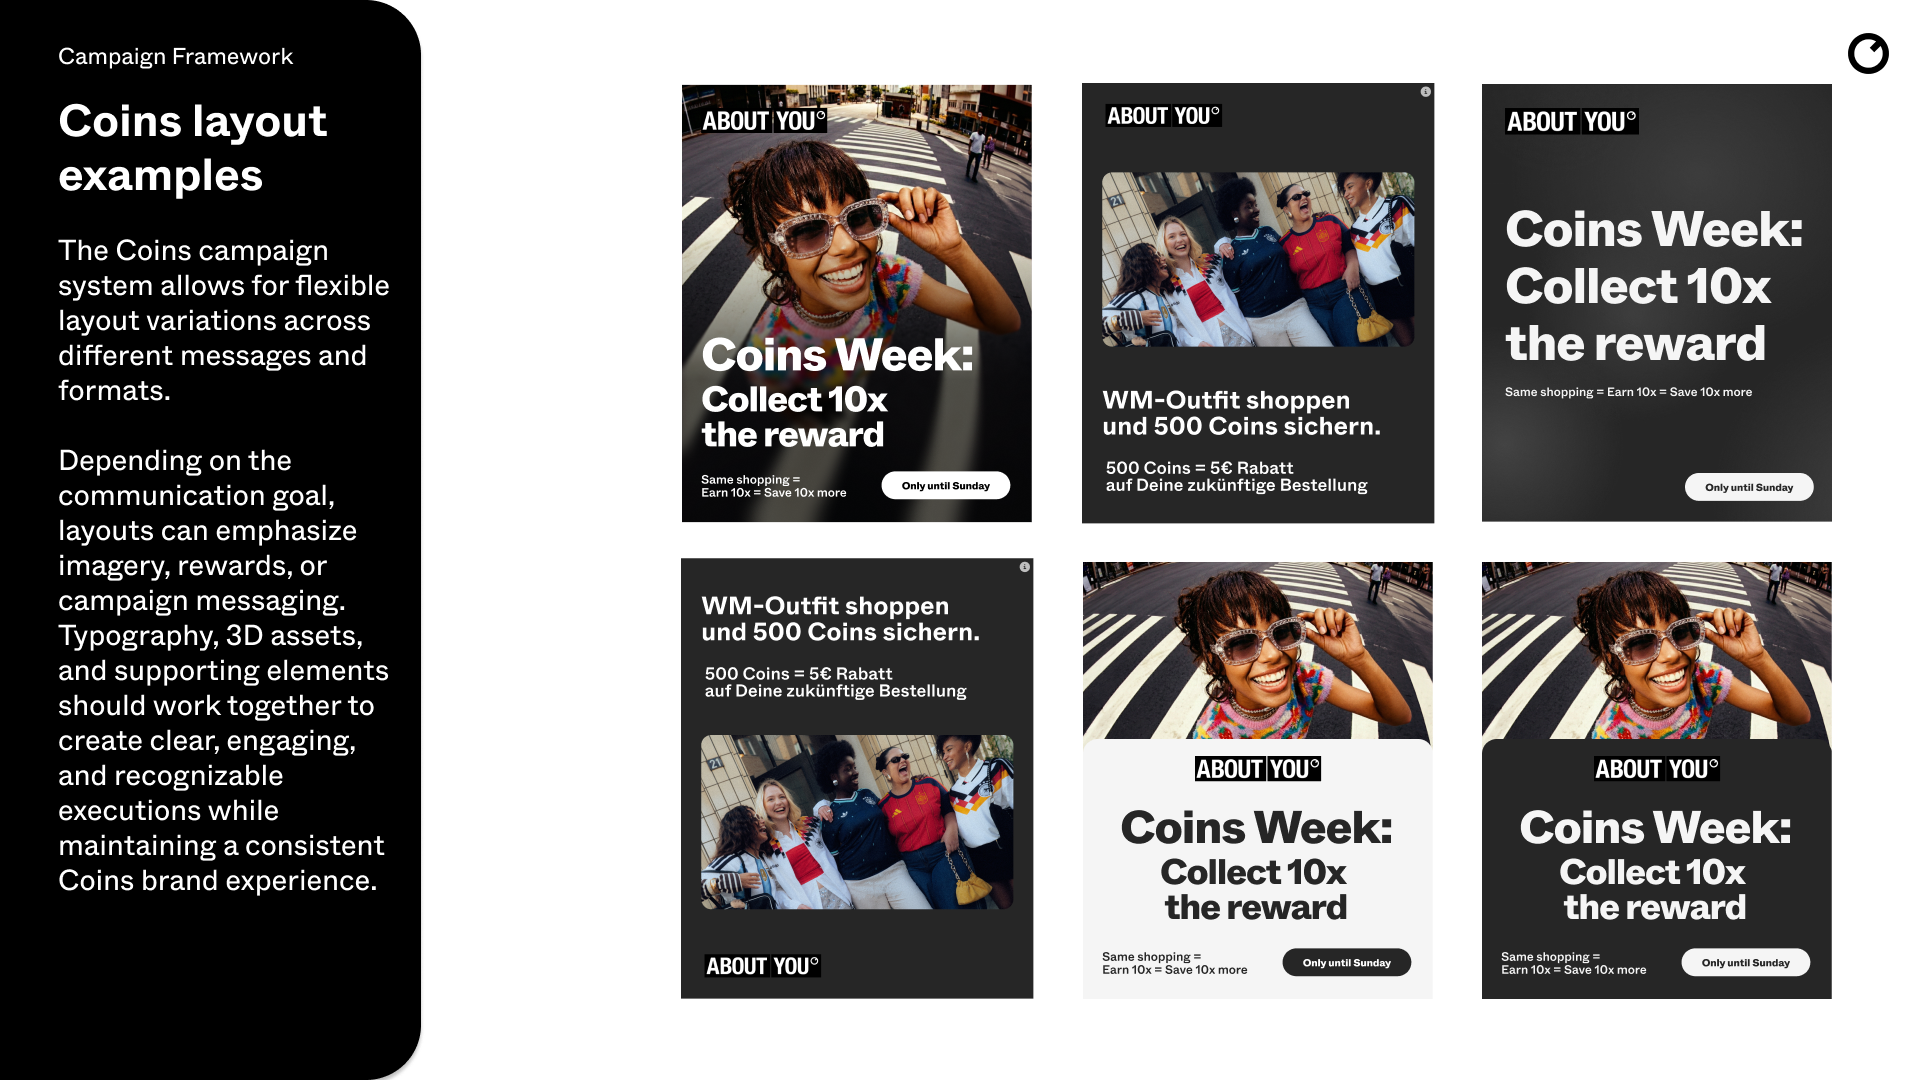
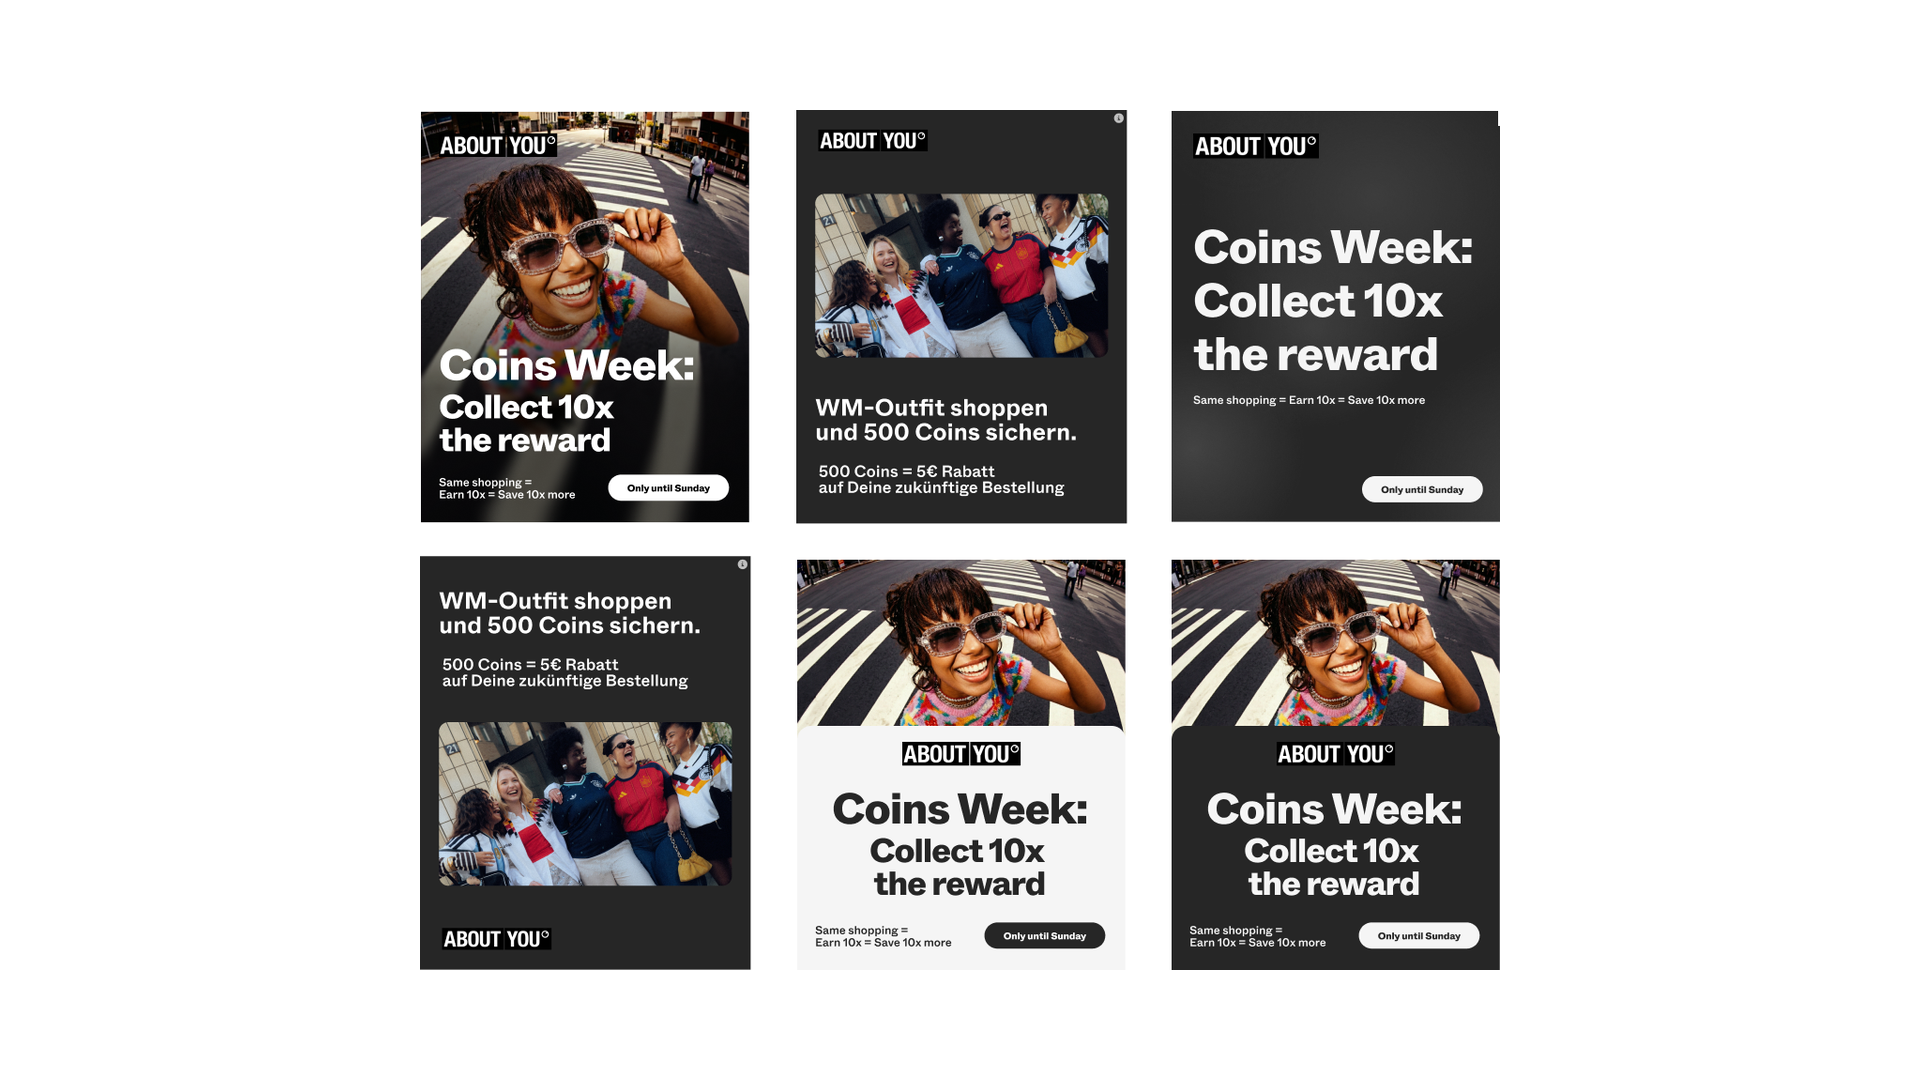
Brand Consistency: show touchpoint selection, drop slide sidebars
- New graphics: 46 touchpoints mapped across 5 journey stages, 11
  selected; scoring on reach, user quality, depth of communication and
  emotional involvement with ranked total scores
- Number row now 46 mapped / 11 selected; intro explains the method
- Slides cropped to their content (black sidebar removed)

Claude-Session: https://claude.ai/code/session_01EEFsaT795ng18RqbzZtwNk

diff --git a/index.html b/index.html
@@ -2296,12 +2296,13 @@ quoteText.textContent = '“' + q.text + '”';
         hero: 'assets/brand-consistency/00-hero.png', client:'About You', year:'2025–2026',
         name:'Brand Consistency',
         title:'About You Brand Consistency',
-        text:"<p>About You had grown into many customer touchpoints, each with its own look and feel: different fonts in marketing and in the shop, a different color for every use case, and campaign assets that did not look like they came from the same brand. The goal of the Brand Consistency project was to build brand equity and make marketing more efficient through one coherent visual identity along the whole user journey. The aim was better quality from the work we already do, not more budget.</p><p>We started by auditing 11 touchpoint groups, from packaging, newsletter and social to TV, print, app and web, and benchmarked About You against 11 other brands. From this we derived a two-mode concept: bold and attention-seeking where we inspire (campaigns, ads, stories), calm and minimal where customers shop (from filters to checkout).</p><p>The result is one brand font, ABC Whyte, used across all touchpoints; a personalizable logo; a simpler color system with defined campaign, coupon, loyalty, AI and highlight colors; accessibility rules for every color pairing; and a campaign framework with ready-made layouts for promotion, creative, coins and coupon campaigns.</p>",
+        text:"<p>About You had grown into many customer touchpoints, each with its own look and feel: different fonts in marketing and in the shop, a different color for every use case, and campaign assets that did not look like they came from the same brand. The goal of the Brand Consistency project was to build brand equity and make marketing more efficient through one coherent visual identity along the whole user journey. The aim was better quality from the work we already do, not more budget.</p><p>As lead of the User Journey Analysis, I mapped 46 touchpoints along the five stages of the customer journey, from awareness to loyalty. Each one was scored on four criteria: reach, the quality of the users reached, how much brand and message it can carry, and its potential for emotional involvement. The 11 highest-scoring touchpoints, among them packaging, the newsletter, organic social, the wishlist and TV ads, became the focus of the rollout. We audited their current look and feel, benchmarked About You against 11 other brands, and derived a two-mode concept: bold and attention-seeking where we inspire (campaigns, ads, stories), calm and minimal where customers shop (from filters to checkout).</p><p>The result is one brand font, ABC Whyte, used across all touchpoints; a personalizable logo; a simpler color system with defined campaign, coupon, loyalty, AI and highlight colors; accessibility rules for every color pairing; and a campaign framework with ready-made layouts for promotion, creative, coins and coupon campaigns.</p>",
         media:(() => {
           const img = f => new URL('assets/brand-consistency/' + f, location.href).href;
           return [
+            img('01a-touchpoint-map.png'), img('01b-touchpoint-scoring.png'),
+            {__type:'numbers', items:[{unit:'46', label:'Touchpoints mapped'},{unit:'11', label:'Selected for rollout'}]},
             img('02-logo.png'), img('03-logo-personalization.png'),
-            {__type:'numbers', items:[{unit:'11', label:'Touchpoints audited'},{unit:'11', label:'Brands benchmarked'}]},
             img('04-color-token-scales.png'), img('05-campaign-color-lime.png'), img('06-coupon-colors.png'),
             img('07-ai-colors.png'), img('08-highlight-colors.png'), img('09-accessibility.png'),
             img('10-typeface.png'), img('11-font-weights.png'), img('12-typography-in-use.png'),

diff --git a/assets/brand-consistency/CONTENT.md b/assets/brand-consistency/CONTENT.md
@@ -8,7 +8,7 @@ Ready to paste into WordPress → Projects → new entry (ACF fields as used by 
 |---|---|
 | `title` | About You Brand Consistency |
 | `slug` | `brand-consistency-about-you` |
-| `hero_image` | `01-hero-campaign-examples.png` |
+| `hero_image` | `00-hero.png` |
 | `background_color` | `#f5f5f5` (same as About You Design System → the two pages read as a pair) |
 | `text-color` | `#000000` |
 | `shortfacts` | Year: `2025 – 2026` · Brand: `About You` · Position: `Lead Designer` |
@@ -22,7 +22,7 @@ Ready to paste into WordPress → Projects → new entry (ACF fields as used by 
 
 > About You had grown into many customer touchpoints, each with its own look and feel: different fonts in marketing and in the shop, a different color for every use case, and campaign assets that did not look like they came from the same brand. The goal of the Brand Consistency project was to build brand equity and make marketing more efficient through one coherent visual identity along the whole user journey. The aim was better quality from the work we already do, not more budget.
 >
-> We started by auditing 11 touchpoint groups, from packaging, newsletter and social to TV, print, app and web, and benchmarked About You against 11 other brands. From this we derived a two-mode concept: bold and attention-seeking where we inspire (campaigns, ads, stories), calm and minimal where customers shop (from filters to checkout).
+> As lead of the User Journey Analysis, I mapped 46 touchpoints along the five stages of the customer journey, from awareness to loyalty. Each one was scored on four criteria: reach, the quality of the users reached, how much brand and message it can carry, and its potential for emotional involvement. The 11 highest-scoring touchpoints, among them packaging, the newsletter, organic social, the wishlist and TV ads, became the focus of the rollout. We audited their current look and feel, benchmarked About You against 11 other brands, and derived a two-mode concept: bold and attention-seeking where we inspire (campaigns, ads, stories), calm and minimal where customers shop (from filters to checkout).
 >
 > The result is one brand font, ABC Whyte, used across all touchpoints; a personalizable logo; a simpler color system with defined campaign, coupon, loyalty, AI and highlight colors; accessibility rules for every color pairing; and a campaign framework with ready-made layouts for promotion, creative, coins and coupon campaigns.
 
@@ -30,9 +30,11 @@ Ready to paste into WordPress → Projects → new entry (ACF fields as used by 
 
 | # | Layout | Content |
 |---|---|---|
-| 1 | image | `02-logo.png` |
-| 2 | image | `03-logo-personalization.png` |
-| 3 | kpi-numbers | left `11` · *Touchpoints audited* / right `11` · *Brands benchmarked* |
+| 1 | image | `01a-touchpoint-map.png` (custom graphic: 46 touchpoints on 5 journey stages, 11 selected) |
+| 2 | image | `01b-touchpoint-scoring.png` (custom graphic: 4 scoring criteria + ranked total scores) |
+| 3 | kpi-numbers | left `46` · *Touchpoints mapped* / right `11` · *Selected for rollout* |
+| 3a | image | `02-logo.png` |
+| 3b | image | `03-logo-personalization.png` |
 | 4 | image | `04-color-token-scales.png` |
 | 5 | image | `05-campaign-color-lime.png` |
 | 6 | image | `06-coupon-colors.png` |
@@ -63,3 +65,7 @@ Ready to paste into WordPress → Projects → new entry (ACF fields as used by 
 
 - Check with About You that the final logo and colors are public before going live (the deck marks some as rolling out in Q1–Q2).
 - There are no outcome KPIs yet (the pre/post measurement is not in the sources). If you have them, swap them for the second kpi-numbers row.
+
+## Visual style
+
+Slides 02–19 are cropped from the Brand Guide: the black sidebar is removed and the content is centred on white, so the page reads as work rather than as a presentation. The two touchpoint graphics are built in DM Sans with the campaign lime `#C6FF00` (colors.lime.shade400). Source for the selection: Figma file `4os1bCa2fSj8h7WFla6a6f`, page "Presentation – Final result".
